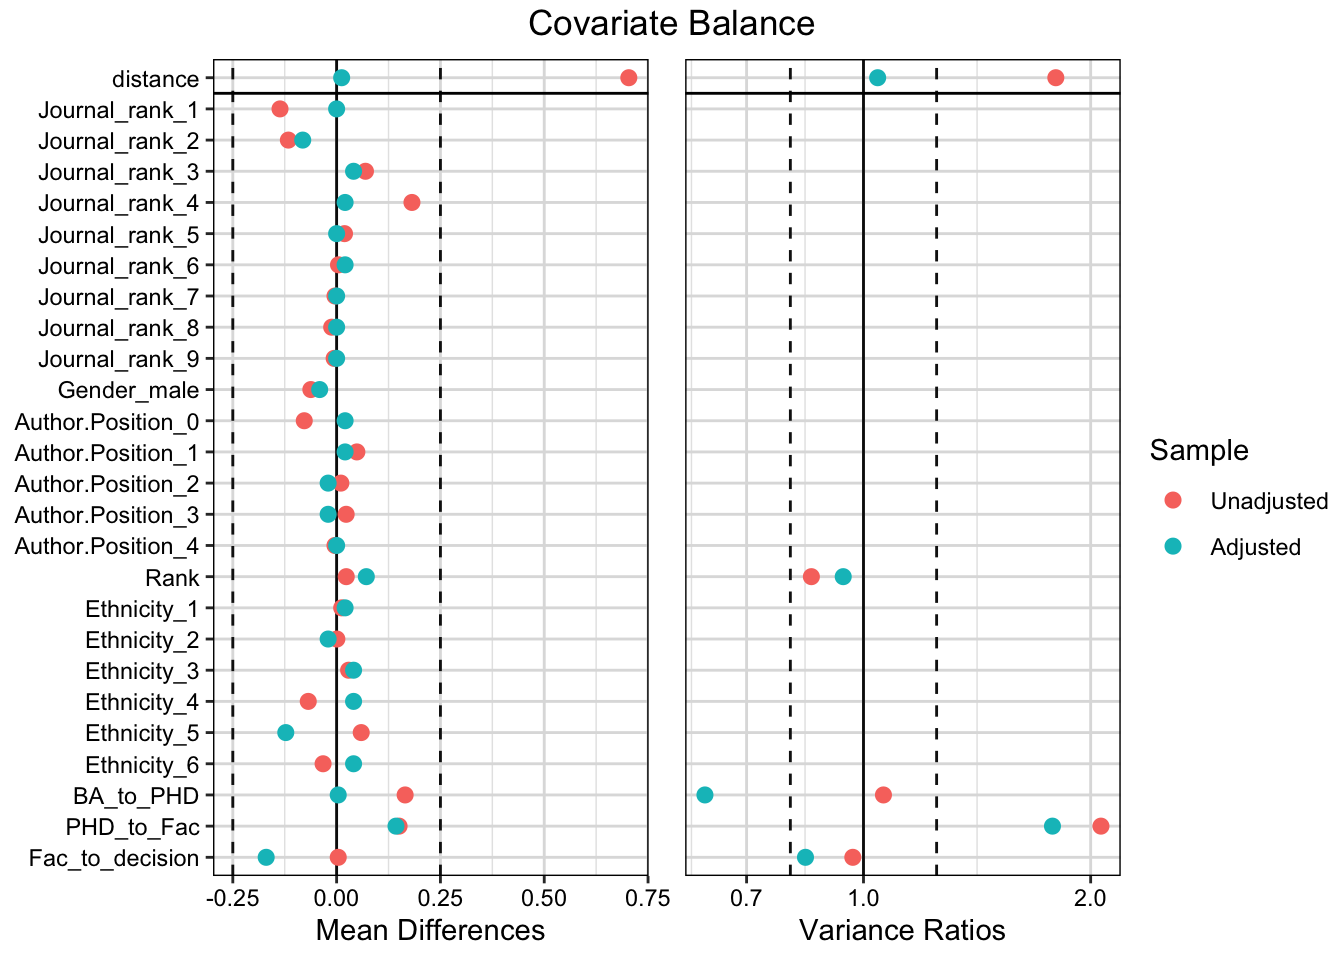
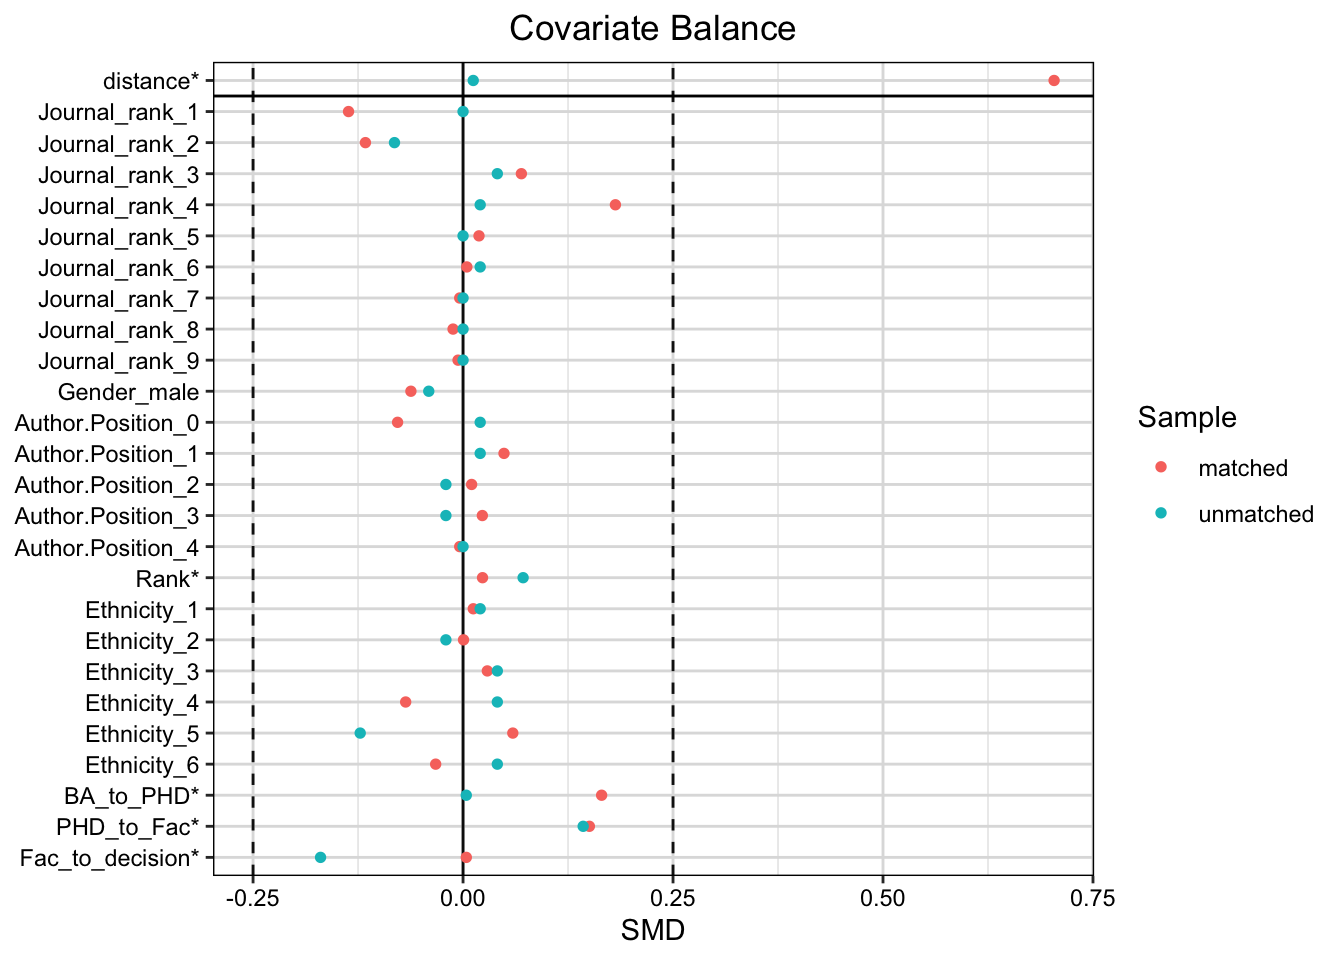
Commit to main

diff --git a/docs/Nearest.html b/docs/Nearest.html
@@ -273,14 +273,16 @@ Discarded       0       0</code></pre>
 <h3 class="anchored" data-anchor-id="visualization">Visualization</h3>
 <p>The visualization of the output is in the following:</p>
 <div class="cell">
-<div class="sourceCode cell-code" id="cb3"><pre class="sourceCode r code-with-copy"><code class="sourceCode r"><span id="cb3-1"><a href="#cb3-1" aria-hidden="true" tabindex="-1"></a><span class="fu">love.plot</span>(<span class="fu">bal.tab</span>(psm_n),</span>
-<span id="cb3-2"><a href="#cb3-2" aria-hidden="true" tabindex="-1"></a>          <span class="at">stat=</span><span class="fu">c</span>(<span class="st">'m'</span>,<span class="st">'v'</span>),</span>
+<div class="sourceCode cell-code" id="cb3"><pre class="sourceCode r code-with-copy"><code class="sourceCode r"><span id="cb3-1"><a href="#cb3-1" aria-hidden="true" tabindex="-1"></a>p<span class="ot">&lt;-</span><span class="fu">love.plot</span>(<span class="fu">bal.tab</span>(psm_n),</span>
+<span id="cb3-2"><a href="#cb3-2" aria-hidden="true" tabindex="-1"></a>          <span class="at">stat=</span><span class="fu">c</span>(<span class="st">'m'</span>),</span>
 <span id="cb3-3"><a href="#cb3-3" aria-hidden="true" tabindex="-1"></a>          <span class="at">grid=</span><span class="cn">TRUE</span>,</span>
-<span id="cb3-4"><a href="#cb3-4" aria-hidden="true" tabindex="-1"></a>          <span class="at">threshold=</span><span class="fu">c</span>(<span class="at">m=</span>.<span class="dv">25</span>, <span class="at">v=</span><span class="fl">1.25</span>))</span></code><button title="Copy to Clipboard" class="code-copy-button"><i class="bi"></i></button></pre></div>
-<div class="cell-output cell-output-stderr">
-<pre><code>Warning: Standardized mean differences and raw mean differences are present in the same plot. 
-Use the `stars` argument to distinguish between them and appropriately label the x-axis.</code></pre>
-</div>
+<span id="cb3-4"><a href="#cb3-4" aria-hidden="true" tabindex="-1"></a>          <span class="at">size=</span><span class="dv">2</span>,</span>
+<span id="cb3-5"><a href="#cb3-5" aria-hidden="true" tabindex="-1"></a>          <span class="at">stars=</span><span class="st">"std"</span> ,</span>
+<span id="cb3-6"><a href="#cb3-6" aria-hidden="true" tabindex="-1"></a>          <span class="at">sample.names=</span><span class="fu">c</span>(<span class="st">"matched"</span>, <span class="st">"unmatched"</span>),</span>
+<span id="cb3-7"><a href="#cb3-7" aria-hidden="true" tabindex="-1"></a>          <span class="at">threshold=</span><span class="fu">c</span>(<span class="at">m=</span>.<span class="dv">25</span>))</span>
+<span id="cb3-8"><a href="#cb3-8" aria-hidden="true" tabindex="-1"></a>p<span class="ot">&lt;-</span> p <span class="sc">+</span> <span class="fu">xlab</span>(<span class="st">"SMD"</span>)</span>
+<span id="cb3-9"><a href="#cb3-9" aria-hidden="true" tabindex="-1"></a></span>
+<span id="cb3-10"><a href="#cb3-10" aria-hidden="true" tabindex="-1"></a>p</span></code><button title="Copy to Clipboard" class="code-copy-button"><i class="bi"></i></button></pre></div>
 <div class="cell-output-display">
 <div>
 <figure class="figure">
@@ -288,8 +290,8 @@ Use the `stars` argument to distinguish between them and appropriately label the
 </figure>
 </div>
 </div>
-<div class="sourceCode cell-code" id="cb5"><pre class="sourceCode r code-with-copy"><code class="sourceCode r"><span id="cb5-1"><a href="#cb5-1" aria-hidden="true" tabindex="-1"></a><span class="fu">plot</span>(psm_n, <span class="at">type =</span> <span class="st">"density"</span>, <span class="at">interactive =</span> <span class="cn">FALSE</span>,</span>
-<span id="cb5-2"><a href="#cb5-2" aria-hidden="true" tabindex="-1"></a>      <span class="at">which.xs =</span> <span class="sc">~</span>Journal_rank <span class="sc">+</span> Gender <span class="sc">+</span> Author.Position <span class="sc">+</span> Rank<span class="sc">+</span> Ethnicity<span class="sc">+</span>BA_to_PHD<span class="sc">+</span>PHD_to_Fac<span class="sc">+</span>Fac_to_decision)</span></code><button title="Copy to Clipboard" class="code-copy-button"><i class="bi"></i></button></pre></div>
+<div class="sourceCode cell-code" id="cb4"><pre class="sourceCode r code-with-copy"><code class="sourceCode r"><span id="cb4-1"><a href="#cb4-1" aria-hidden="true" tabindex="-1"></a><span class="fu">plot</span>(psm_n, <span class="at">type =</span> <span class="st">"density"</span>, <span class="at">interactive =</span> <span class="cn">FALSE</span>,</span>
+<span id="cb4-2"><a href="#cb4-2" aria-hidden="true" tabindex="-1"></a>      <span class="at">which.xs =</span> <span class="sc">~</span>Journal_rank <span class="sc">+</span> Gender <span class="sc">+</span> Author.Position <span class="sc">+</span> Rank<span class="sc">+</span> Ethnicity<span class="sc">+</span>BA_to_PHD<span class="sc">+</span>PHD_to_Fac<span class="sc">+</span>Fac_to_decision)</span></code><button title="Copy to Clipboard" class="code-copy-button"><i class="bi"></i></button></pre></div>
 <div class="cell-output-display">
 <div>
 <figure class="figure">
@@ -318,54 +320,113 @@ Use the `stars` argument to distinguish between them and appropriately label the
 <h2 class="anchored" data-anchor-id="summary-of-logistic-regression">Summary of Logistic Regression</h2>
 <p>The following is the output of Logistic regression</p>
 <div class="cell">
-<div class="sourceCode cell-code" id="cb6"><pre class="sourceCode r code-with-copy"><code class="sourceCode r"><span id="cb6-1"><a href="#cb6-1" aria-hidden="true" tabindex="-1"></a>matched_data <span class="ot">&lt;-</span> <span class="fu">match.data</span>(psm_n)</span>
-<span id="cb6-2"><a href="#cb6-2" aria-hidden="true" tabindex="-1"></a>model<span class="ot">&lt;-</span> <span class="fu">glm</span>(</span>
-<span id="cb6-3"><a href="#cb6-3" aria-hidden="true" tabindex="-1"></a>  tenure <span class="sc">~</span> Econ_Index<span class="sc">+</span>Journal_rank <span class="sc">+</span> Gender <span class="sc">+</span> Author.Position <span class="sc">+</span> Rank <span class="sc">+</span> </span>
-<span id="cb6-4"><a href="#cb6-4" aria-hidden="true" tabindex="-1"></a>    Ethnicity <span class="sc">+</span> BA_to_PHD <span class="sc">+</span> PHD_to_Fac <span class="sc">+</span> Fac_to_decision,</span>
-<span id="cb6-5"><a href="#cb6-5" aria-hidden="true" tabindex="-1"></a>  <span class="at">data    =</span> matched_data,</span>
-<span id="cb6-6"><a href="#cb6-6" aria-hidden="true" tabindex="-1"></a>  <span class="at">family  =</span> binomial</span>
-<span id="cb6-7"><a href="#cb6-7" aria-hidden="true" tabindex="-1"></a>)</span>
-<span id="cb6-8"><a href="#cb6-8" aria-hidden="true" tabindex="-1"></a></span>
-<span id="cb6-9"><a href="#cb6-9" aria-hidden="true" tabindex="-1"></a><span class="fu">summary</span>(model)</span></code><button title="Copy to Clipboard" class="code-copy-button"><i class="bi"></i></button></pre></div>
+<div class="sourceCode cell-code" id="cb5"><pre class="sourceCode r code-with-copy"><code class="sourceCode r"><span id="cb5-1"><a href="#cb5-1" aria-hidden="true" tabindex="-1"></a>matched_data <span class="ot">&lt;-</span> <span class="fu">match.data</span>(psm_n)</span>
+<span id="cb5-2"><a href="#cb5-2" aria-hidden="true" tabindex="-1"></a>model<span class="ot">&lt;-</span> <span class="fu">glm</span>(</span>
+<span id="cb5-3"><a href="#cb5-3" aria-hidden="true" tabindex="-1"></a>  tenure <span class="sc">~</span> Econ_Index<span class="sc">*</span>(Journal_rank <span class="sc">+</span> Gender <span class="sc">+</span> Author.Position <span class="sc">+</span> Rank <span class="sc">+</span> </span>
+<span id="cb5-4"><a href="#cb5-4" aria-hidden="true" tabindex="-1"></a>    Ethnicity <span class="sc">+</span> BA_to_PHD <span class="sc">+</span> PHD_to_Fac <span class="sc">+</span> Fac_to_decision),</span>
+<span id="cb5-5"><a href="#cb5-5" aria-hidden="true" tabindex="-1"></a>  <span class="at">data    =</span> matched_data,</span>
+<span id="cb5-6"><a href="#cb5-6" aria-hidden="true" tabindex="-1"></a>  <span class="at">family  =</span> <span class="fu">binomial</span>(<span class="at">link=</span><span class="st">"logit"</span>)</span>
+<span id="cb5-7"><a href="#cb5-7" aria-hidden="true" tabindex="-1"></a>)</span>
+<span id="cb5-8"><a href="#cb5-8" aria-hidden="true" tabindex="-1"></a></span>
+<span id="cb5-9"><a href="#cb5-9" aria-hidden="true" tabindex="-1"></a><span class="fu">summary</span>(model)</span></code><button title="Copy to Clipboard" class="code-copy-button"><i class="bi"></i></button></pre></div>
 <div class="cell-output cell-output-stdout">
 <pre><code>
 Call:
-glm(formula = tenure ~ Econ_Index + Journal_rank + Gender + Author.Position + 
-    Rank + Ethnicity + BA_to_PHD + PHD_to_Fac + Fac_to_decision, 
-    family = binomial, data = matched_data)
+glm(formula = tenure ~ Econ_Index * (Journal_rank + Gender + 
+    Author.Position + Rank + Ethnicity + BA_to_PHD + PHD_to_Fac + 
+    Fac_to_decision), family = binomial(link = "logit"), data = matched_data)
 
 Deviance Residuals: 
      Min        1Q    Median        3Q       Max  
--2.24811  -0.00018   0.24533   0.70390   1.49813  
+-2.36142  -0.00006   0.00151   0.52056   2.26047  
 
-Coefficients:
-                              Estimate Std. Error z value Pr(&gt;|z|)
-(Intercept)                  1.377e+01  2.040e+03   0.007    0.995
-Econ_IndexInterdisciplinary -4.958e-01  6.013e-01  -0.824    0.410
-Journal_rank.L               1.148e+01  6.427e+03   0.002    0.999
-Journal_rank.Q               1.003e+01  5.867e+03   0.002    0.999
-Journal_rank.C               7.569e+00  4.008e+03   0.002    0.998
-Journal_rank^4               5.344e+00  2.032e+03   0.003    0.998
-Journal_rank^5               1.544e+00  6.774e+02   0.002    0.998
-Gendermale                  -1.129e-02  6.757e-01  -0.017    0.987
-Author.Position.L            6.016e+00  8.714e+02   0.007    0.994
-Author.Position.Q           -1.619e+01  1.948e+03  -0.008    0.993
-Author.Position.C           -2.442e+01  2.614e+03  -0.009    0.993
-Rank                         2.213e-03  2.385e-02   0.093    0.926
-Ethnicity2                  -1.883e+01  3.305e+03  -0.006    0.995
-Ethnicity3                  -1.560e+00  2.439e+00  -0.640    0.522
-Ethnicity4                  -1.862e+01  3.363e+03  -0.006    0.996
-Ethnicity5                  -1.601e-01  7.101e-01  -0.225    0.822
-Ethnicity6                  -2.257e-02  1.969e+00  -0.011    0.991
-BA_to_PHD                   -2.080e-02  1.362e-01  -0.153    0.879
-PHD_to_Fac                   1.261e-01  1.914e-01   0.659    0.510
-Fac_to_decision             -4.709e-02  1.313e-01  -0.359    0.720
+Coefficients: (4 not defined because of singularities)
+                                                Estimate Std. Error z value
+(Intercept)                                    3.122e+00  7.734e+03   0.000
+Econ_IndexInterdisciplinary                    1.377e+01  8.296e+03   0.002
+Journal_rank.L                                -4.978e+01  2.273e+04  -0.002
+Journal_rank.Q                                -1.782e+01  2.173e+04  -0.001
+Journal_rank.C                                -1.722e+01  1.009e+04  -0.002
+Journal_rank^4                                 4.474e+00  5.506e+03   0.001
+Journal_rank^5                                 1.879e+00  9.580e+02   0.002
+Gendermale                                     8.801e-01  1.041e+00   0.845
+Author.Position.L                             -8.410e+00  2.126e+03  -0.004
+Author.Position.Q                              4.296e-01  2.660e+03   0.000
+Author.Position.C                             -1.705e+01  3.103e+03  -0.005
+Rank                                          -2.318e-02  4.815e-02  -0.481
+Ethnicity2                                    -1.971e+01  6.226e+03  -0.003
+Ethnicity3                                    -3.519e+00  5.595e+00  -0.629
+Ethnicity4                                    -2.210e+01  4.556e+03  -0.005
+Ethnicity5                                    -1.517e+00  1.295e+00  -1.172
+Ethnicity6                                    -2.518e+00  2.505e+00  -1.005
+BA_to_PHD                                     -1.418e-01  1.976e-01  -0.718
+PHD_to_Fac                                     3.330e-02  3.995e-01   0.083
+Fac_to_decision                               -3.610e-02  2.169e-01  -0.166
+Econ_IndexInterdisciplinary:Journal_rank.L     7.554e+01  2.084e+04   0.004
+Econ_IndexInterdisciplinary:Journal_rank.Q     1.215e+01  2.326e+04   0.001
+Econ_IndexInterdisciplinary:Journal_rank.C     3.355e+01  8.353e+03   0.004
+Econ_IndexInterdisciplinary:Journal_rank^4    -3.268e+00  6.211e+03  -0.001
+Econ_IndexInterdisciplinary:Journal_rank^5            NA         NA      NA
+Econ_IndexInterdisciplinary:Gendermale        -5.614e+00  2.700e+00  -2.079
+Econ_IndexInterdisciplinary:Author.Position.L  1.206e+01  2.568e+03   0.005
+Econ_IndexInterdisciplinary:Author.Position.Q -1.658e+01  4.178e+03  -0.004
+Econ_IndexInterdisciplinary:Author.Position.C -9.825e+00  5.321e+03  -0.002
+Econ_IndexInterdisciplinary:Rank               1.085e-01  7.552e-02   1.437
+Econ_IndexInterdisciplinary:Ethnicity2         1.529e-01  1.400e+04   0.000
+Econ_IndexInterdisciplinary:Ethnicity3                NA         NA      NA
+Econ_IndexInterdisciplinary:Ethnicity4                NA         NA      NA
+Econ_IndexInterdisciplinary:Ethnicity5         2.402e+00  1.923e+00   1.250
+Econ_IndexInterdisciplinary:Ethnicity6                NA         NA      NA
+Econ_IndexInterdisciplinary:BA_to_PHD          2.534e-01  4.648e-01   0.545
+Econ_IndexInterdisciplinary:PHD_to_Fac        -1.521e-01  5.315e-01  -0.286
+Econ_IndexInterdisciplinary:Fac_to_decision   -9.904e-01  4.859e-01  -2.038
+                                              Pr(&gt;|z|)  
+(Intercept)                                     0.9997  
+Econ_IndexInterdisciplinary                     0.9987  
+Journal_rank.L                                  0.9983  
+Journal_rank.Q                                  0.9993  
+Journal_rank.C                                  0.9986  
+Journal_rank^4                                  0.9994  
+Journal_rank^5                                  0.9984  
+Gendermale                                      0.3978  
+Author.Position.L                               0.9968  
+Author.Position.Q                               0.9999  
+Author.Position.C                               0.9956  
+Rank                                            0.6302  
+Ethnicity2                                      0.9975  
+Ethnicity3                                      0.5294  
+Ethnicity4                                      0.9961  
+Ethnicity5                                      0.2413  
+Ethnicity6                                      0.3148  
+BA_to_PHD                                       0.4730  
+PHD_to_Fac                                      0.9336  
+Fac_to_decision                                 0.8678  
+Econ_IndexInterdisciplinary:Journal_rank.L      0.9971  
+Econ_IndexInterdisciplinary:Journal_rank.Q      0.9996  
+Econ_IndexInterdisciplinary:Journal_rank.C      0.9968  
+Econ_IndexInterdisciplinary:Journal_rank^4      0.9996  
+Econ_IndexInterdisciplinary:Journal_rank^5          NA  
+Econ_IndexInterdisciplinary:Gendermale          0.0376 *
+Econ_IndexInterdisciplinary:Author.Position.L   0.9963  
+Econ_IndexInterdisciplinary:Author.Position.Q   0.9968  
+Econ_IndexInterdisciplinary:Author.Position.C   0.9985  
+Econ_IndexInterdisciplinary:Rank                0.1508  
+Econ_IndexInterdisciplinary:Ethnicity2          1.0000  
+Econ_IndexInterdisciplinary:Ethnicity3              NA  
+Econ_IndexInterdisciplinary:Ethnicity4              NA  
+Econ_IndexInterdisciplinary:Ethnicity5          0.2115  
+Econ_IndexInterdisciplinary:Ethnicity6              NA  
+Econ_IndexInterdisciplinary:BA_to_PHD           0.5857  
+Econ_IndexInterdisciplinary:PHD_to_Fac          0.7747  
+Econ_IndexInterdisciplinary:Fac_to_decision     0.0415 *
+---
+Signif. codes:  0 '***' 0.001 '**' 0.01 '*' 0.05 '.' 0.1 ' ' 1
 
 (Dispersion parameter for binomial family taken to be 1)
 
     Null deviance: 113.393  on 97  degrees of freedom
-Residual deviance:  77.695  on 78  degrees of freedom
-AIC: 117.69
+Residual deviance:  56.876  on 64  degrees of freedom
+AIC: 124.88
 
 Number of Fisher Scoring iterations: 18</code></pre>
 </div>

diff --git a/docs/weekly report.html b/docs/weekly report.html
@@ -6,7 +6,7 @@
 
 <meta name="viewport" content="width=device-width, initial-scale=1.0, user-scalable=yes">
 
-<meta name="dcterms.date" content="2025-02-27">
+<meta name="dcterms.date" content="2025-02-28">
 
 <title>Summary of the Data – January Report</title>
 <style>
@@ -181,7 +181,7 @@ pre > code.sourceCode > span > a:first-child::before { text-decoration: underlin
     <div>
     <div class="quarto-title-meta-heading">Published</div>
     <div class="quarto-title-meta-contents">
-      <p class="date">February 27, 2025</p>
+      <p class="date">February 28, 2025</p>
     </div>
   </div>
   
